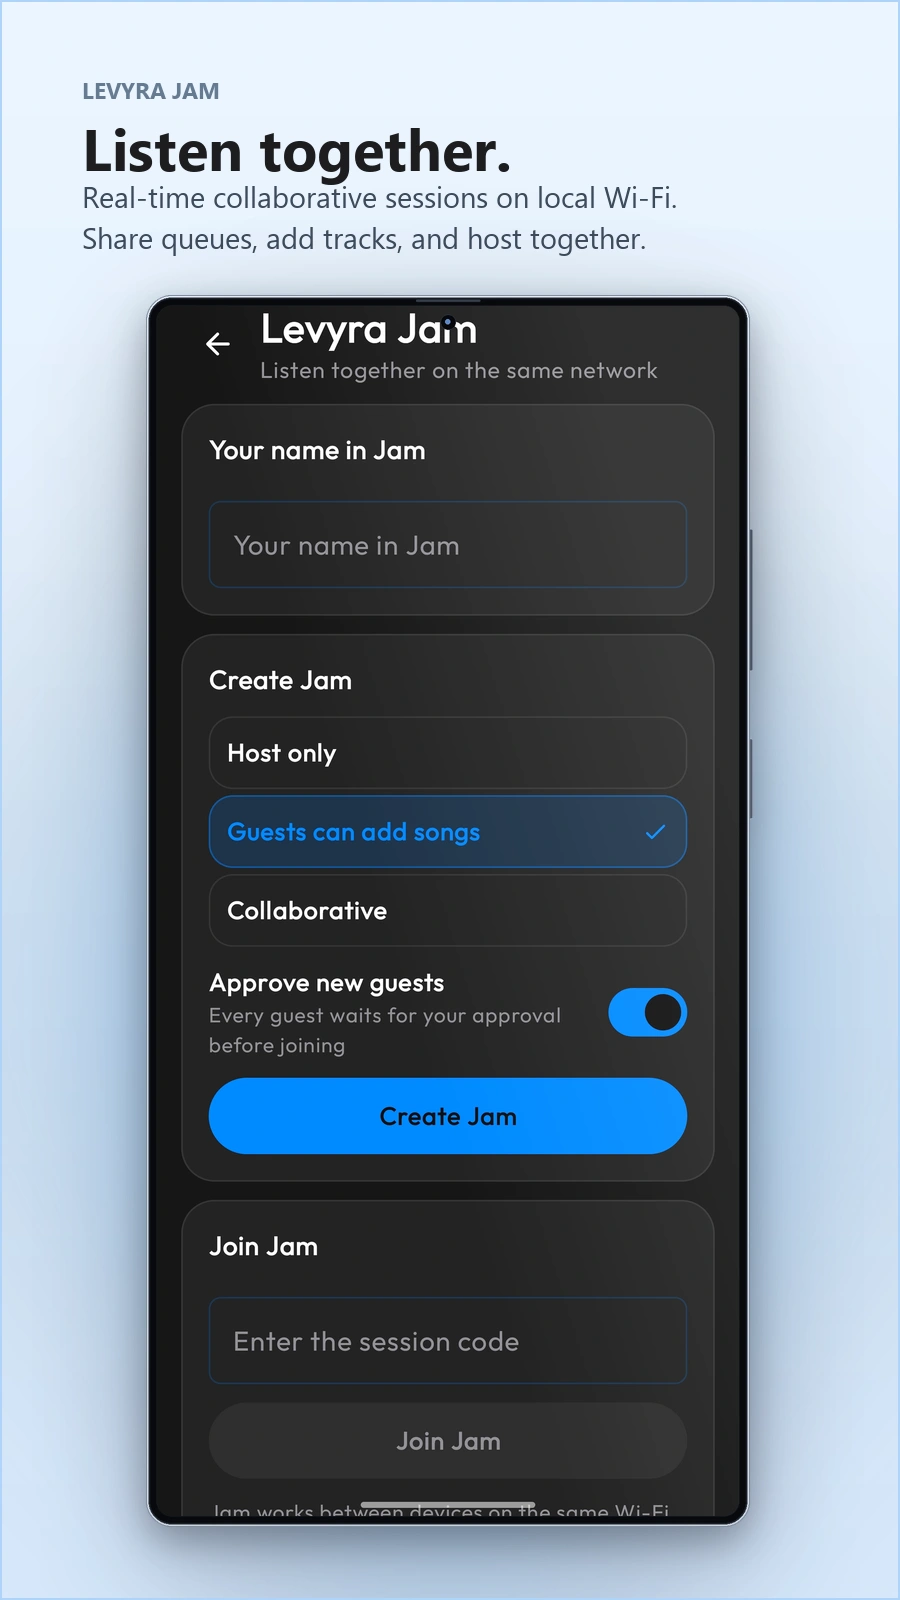
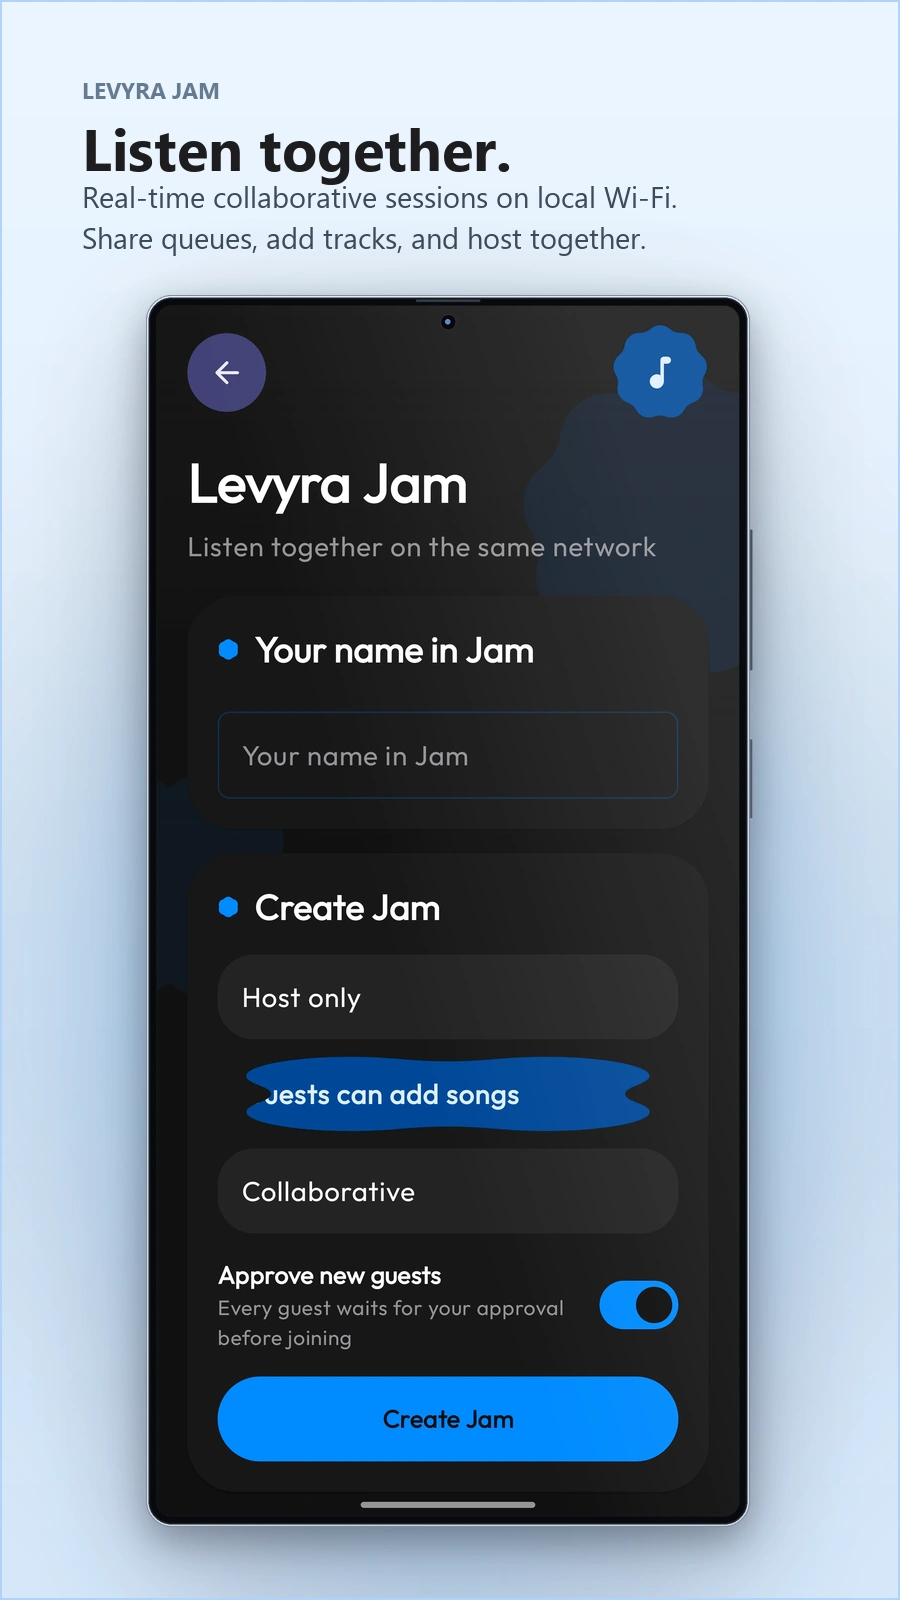
docs(readme): update Levyra Jam showcase card with redesigned screen

diff --git a/scripts/generate_showcase_assets.py b/scripts/generate_showcase_assets.py
@@ -830,7 +830,7 @@ REMAINING_SPECS = [
     ("Screenshot_20261010_144144_LEVYRA.jpg", "NEW MUSIC", "Fresh off the stage.", "New singles and albums updated\nevery week directly from artists.", (250, 238, 250), (240, 214, 240), (195, 80, 195), (230, 185, 230, 200), ["17_new_releases.webp"]),
     ("Screenshot_20261010_143646_LEVYRA.jpg", "ARTIST PROFILE", "Meet the artist.", "Full discography, singles, biographies,\nand top tracks in one tap.", (238, 244, 252), (216, 230, 248), (40, 125, 230), (180, 205, 245, 200), ["18_artist_profile.webp", "18_fresh_currents.webp"]),
     ("Screenshot_20261010_132028_LEVYRA.jpg", "GLOBAL CHARTS", "Top 50 charts.", "Explore daily country charts,\nviral hits, and top tracks worldwide.", (252, 238, 236), (248, 212, 208), (235, 75, 65), (245, 180, 175, 200), ["19_top_50.webp"]),
-    ("Screenshot_20261011_123125_LEVYRA.jpg", "LEVYRA JAM", "Listen together.", "Real-time collaborative sessions on local Wi-Fi.\nShare queues, add tracks, and host together.", (236, 246, 255), (214, 232, 252), (0, 140, 255), (175, 212, 250, 200), ["20_soundstage.webp", "20_levyra_jam.webp"]),
+    ("Screenshot_20261011_133434_LEVYRA.jpg", "LEVYRA JAM", "Listen together.", "Real-time collaborative sessions on local Wi-Fi.\nShare queues, add tracks, and host together.", (236, 246, 255), (214, 232, 252), (0, 140, 255), (175, 212, 250, 200), ["20_soundstage.webp", "20_levyra_jam.webp"]),
 ]
 
 def generate_feature_cards():

diff --git a/README.md b/README.md
@@ -150,7 +150,7 @@ Enhanced Audio is on by default and can be turned off in Audio Settings. Technic
   <a href="docs/assets/showcase/cards/17_new_releases.webp"><img src="docs/assets/showcase/cards/17_new_releases.webp?v=apple-keynote-strada-b-20261011" width="200" alt="Levyra new releases" /></a>
   <a href="docs/assets/showcase/cards/18_artist_profile.webp"><img src="docs/assets/showcase/cards/18_artist_profile.webp?v=apple-keynote-strada-b-20261011" width="200" alt="Levyra artist profile and discography" /></a>
   <a href="docs/assets/showcase/cards/19_top_50.webp"><img src="docs/assets/showcase/cards/19_top_50.webp?v=apple-keynote-strada-b-20261011" width="200" alt="Levyra Top 50 charts" /></a>
-  <a href="docs/assets/showcase/cards/20_levyra_jam.webp"><img src="docs/assets/showcase/cards/20_levyra_jam.webp?v=apple-keynote-jam-20261011" width="200" alt="Levyra Jam collaborative listening on local Wi-Fi" /></a>
+  <a href="docs/assets/showcase/cards/20_levyra_jam.webp"><img src="docs/assets/showcase/cards/20_levyra_jam.webp?v=apple-keynote-jam-v2-20261011" width="200" alt="Levyra Jam collaborative listening on local Wi-Fi" /></a>
 </p>
 
 </div>
